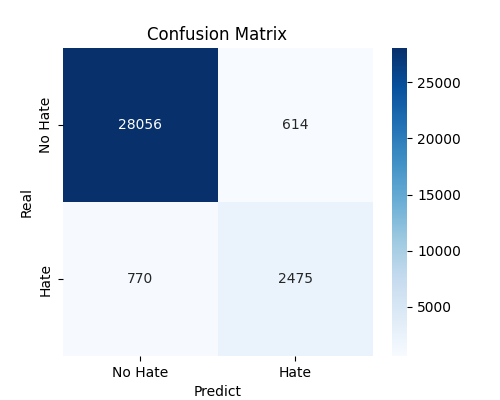
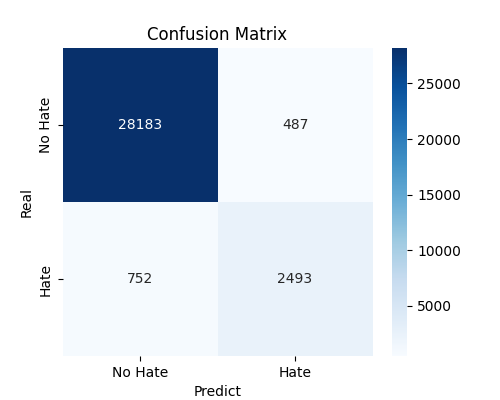
updates

diff --git a/src/train.py b/src/train.py
@@ -131,10 +131,10 @@ model_hate_binary.save('/content/drive/MyDrive/Colab Notebooks/Progetto GitHub/D
 
 evaluate_model(model_hate_binary, 
                padded_test_hate_sequences, 
-               y_test_hate, 
+               y_test_binary_hate, 
                folder='binary_hate')
 
-model_hate_binary.evaluate(padded_test_hate_sequences,y_test_hate)
+model_hate_binary.evaluate(padded_test_hate_sequences, y_test_binary_hate)
 
 
 # --------------------------------------------------------------
